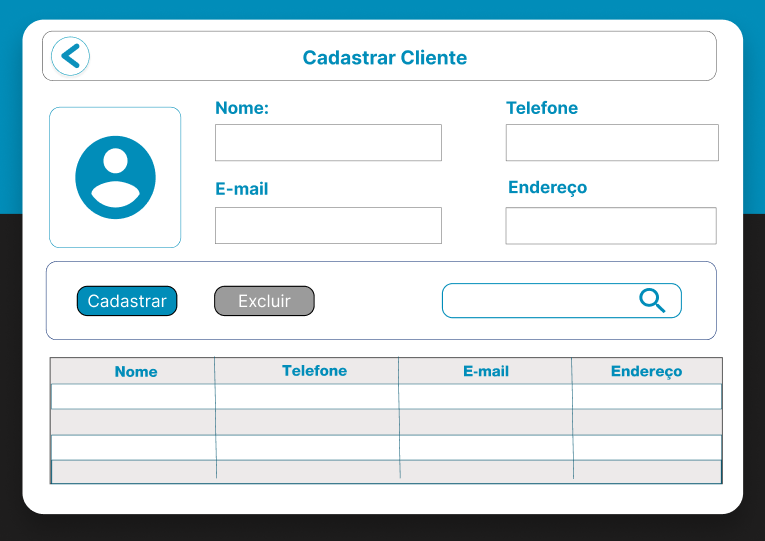
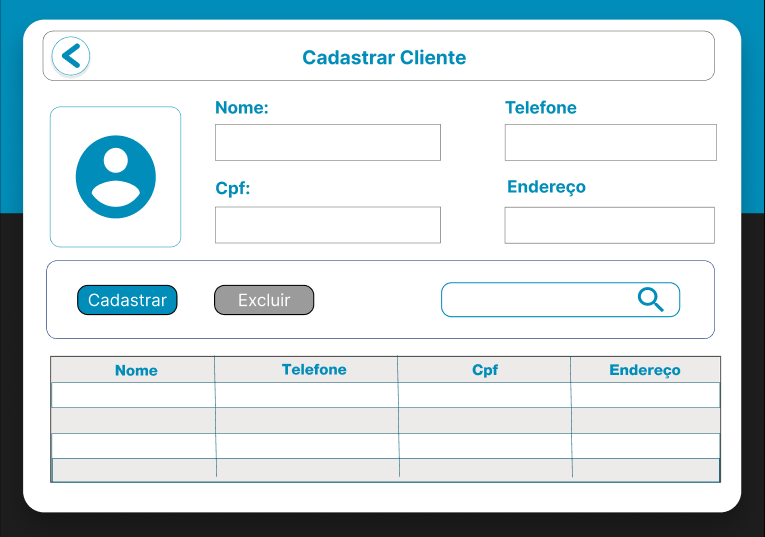
começando DonoController

diff --git a/ProjetoMVC/src/View/CadastroCliente.java b/ProjetoMVC/src/View/CadastroCliente.java
@@ -4,6 +4,8 @@
  */
 package View;
 
+import javax.swing.JTextField;
+
 /**
  *
  * @author Usuário
@@ -29,11 +31,13 @@ public class CadastroCliente extends javax.swing.JFrame {
         jButton1 = new javax.swing.JButton();
         jButton2 = new javax.swing.JButton();
         jButton3 = new javax.swing.JButton();
-        jTextField1 = new javax.swing.JTextField();
-        jTextField2 = new javax.swing.JTextField();
-        jTextField3 = new javax.swing.JTextField();
-        jTextField4 = new javax.swing.JTextField();
-        Fundo_Cadastro_Cliente = new javax.swing.JLabel();
+        tf_nome = new javax.swing.JTextField();
+        tf_telefone = new javax.swing.JTextField();
+        tf_cpf = new javax.swing.JTextField();
+        tf_endereco = new javax.swing.JTextField();
+        jScrollPane1 = new javax.swing.JScrollPane();
+        jTable1 = new javax.swing.JTable();
+        Fundo_CadastrarCliente = new javax.swing.JLabel();
 
         setDefaultCloseOperation(javax.swing.WindowConstants.EXIT_ON_CLOSE);
         getContentPane().setLayout(new org.netbeans.lib.awtextra.AbsoluteLayout());
@@ -53,32 +57,47 @@ public class CadastroCliente extends javax.swing.JFrame {
         });
         getContentPane().add(jButton3, new org.netbeans.lib.awtextra.AbsoluteConstraints(50, 30, 40, 50));
 
-        jTextField1.setBorder(null);
-        getContentPane().add(jTextField1, new org.netbeans.lib.awtextra.AbsoluteConstraints(220, 126, 220, 30));
+        tf_nome.setBorder(null);
+        getContentPane().add(tf_nome, new org.netbeans.lib.awtextra.AbsoluteConstraints(220, 126, 220, 30));
 
-        jTextField2.setBorder(null);
-        getContentPane().add(jTextField2, new org.netbeans.lib.awtextra.AbsoluteConstraints(510, 126, 200, 30));
+        tf_telefone.setBorder(null);
+        getContentPane().add(tf_telefone, new org.netbeans.lib.awtextra.AbsoluteConstraints(510, 126, 200, 30));
 
-        jTextField3.setBorder(null);
-        getContentPane().add(jTextField3, new org.netbeans.lib.awtextra.AbsoluteConstraints(220, 210, 220, 30));
+        tf_cpf.setBorder(null);
+        getContentPane().add(tf_cpf, new org.netbeans.lib.awtextra.AbsoluteConstraints(220, 210, 220, 30));
 
-        jTextField4.setBorder(null);
-        jTextField4.addActionListener(new java.awt.event.ActionListener() {
+        tf_endereco.setBorder(null);
+        tf_endereco.addActionListener(new java.awt.event.ActionListener() {
             public void actionPerformed(java.awt.event.ActionEvent evt) {
-                jTextField4ActionPerformed(evt);
+                tf_enderecoActionPerformed(evt);
             }
         });
-        getContentPane().add(jTextField4, new org.netbeans.lib.awtextra.AbsoluteConstraints(510, 210, 200, 30));
+        getContentPane().add(tf_endereco, new org.netbeans.lib.awtextra.AbsoluteConstraints(510, 210, 200, 30));
 
-        Fundo_Cadastro_Cliente.setIcon(new javax.swing.ImageIcon(getClass().getResource("/Imagens/CadastroCliente.png"))); // NOI18N
-        getContentPane().add(Fundo_Cadastro_Cliente, new org.netbeans.lib.awtextra.AbsoluteConstraints(0, 0, -1, 540));
+        jTable1.setModel(new javax.swing.table.DefaultTableModel(
+            new Object [][] {
+                {null, null, null, null},
+                {null, null, null, null},
+                {null, null, null, null},
+                {null, null, null, null}
+            },
+            new String [] {
+                "Nome", "Telefone", "Cpf", "Endereço"
+            }
+        ));
+        jScrollPane1.setViewportView(jTable1);
+
+        getContentPane().add(jScrollPane1, new org.netbeans.lib.awtextra.AbsoluteConstraints(40, 350, 690, 150));
+
+        Fundo_CadastrarCliente.setIcon(new javax.swing.ImageIcon(getClass().getResource("/Imagens/CadastroCliente.png"))); // NOI18N
+        getContentPane().add(Fundo_CadastrarCliente, new org.netbeans.lib.awtextra.AbsoluteConstraints(0, -20, 760, 570));
 
         pack();
     }// </editor-fold>//GEN-END:initComponents
 
-    private void jTextField4ActionPerformed(java.awt.event.ActionEvent evt) {//GEN-FIRST:event_jTextField4ActionPerformed
+    private void tf_enderecoActionPerformed(java.awt.event.ActionEvent evt) {//GEN-FIRST:event_tf_enderecoActionPerformed
         // TODO add your handling code here:
-    }//GEN-LAST:event_jTextField4ActionPerformed
+    }//GEN-LAST:event_tf_enderecoActionPerformed
 
     private void jButton3ActionPerformed(java.awt.event.ActionEvent evt) {//GEN-FIRST:event_jButton3ActionPerformed
          // Ação após clicar no Botão Voltar
@@ -122,13 +141,20 @@ public class CadastroCliente extends javax.swing.JFrame {
     }
 
     // Variables declaration - do not modify//GEN-BEGIN:variables
-    private javax.swing.JLabel Fundo_Cadastro_Cliente;
+    private javax.swing.JLabel Fundo_CadastrarCliente;
     private javax.swing.JButton jButton1;
     private javax.swing.JButton jButton2;
     private javax.swing.JButton jButton3;
-    private javax.swing.JTextField jTextField1;
-    private javax.swing.JTextField jTextField2;
-    private javax.swing.JTextField jTextField3;
-    private javax.swing.JTextField jTextField4;
+    private javax.swing.JScrollPane jScrollPane1;
+    private javax.swing.JTable jTable1;
+    private javax.swing.JTextField tf_cpf;
+    private javax.swing.JTextField tf_endereco;
+    private javax.swing.JTextField tf_nome;
+    private javax.swing.JTextField tf_telefone;
     // End of variables declaration//GEN-END:variables
+
+    
+    
+
+    
 }

diff --git a/ProjetoMVC/src/Controller/DonoController.java b/ProjetoMVC/src/Controller/DonoController.java
@@ -1,0 +1,36 @@
+/*
+ * Click nbfs://nbhost/SystemFileSystem/Templates/Licenses/license-default.txt to change this license
+ * Click nbfs://nbhost/SystemFileSystem/Templates/Classes/Class.java to edit this template
+ */
+package Controller;
+
+import View.CadastroCliente;
+import View.SubMenuCadastro;
+import java.io.Serializable;
+
+/**
+ *
+ * @author Usuário
+ */
+public class DonoController implements Serializable {
+     private final CadastroCliente view;
+     private DonoHelper helper;
+
+    public DonoController(CadastroCliente view) {
+        this.view = view;
+        this.helper = new DonoHelper(helper);
+    }
+    
+    public void cadastrarCliente(){
+        //Pegar Pet da view
+        Dono dono = helper.obterModelo();
+        
+        DonoDAO donoDao = new DonoDAO();
+        donoDao.cadastrarCliente(dono);
+    }
+     
+    public void voltarAoMenu(){
+        SubMenuCadastro novoFrame = new SubMenuCadastro();
+        novoFrame.setVisible(true);
+    }
+}

diff --git a/ProjetoMVC/src/Controller/Helper/DonoHelper.java b/ProjetoMVC/src/Controller/Helper/DonoHelper.java
@@ -1,0 +1,23 @@
+
+package Controller.Helper;
+
+import View.CadastroCliente;
+import java.io.Serializable;
+
+
+public class DonoHelper implements Serializable {
+    private final CadastroCliente view;
+
+    public DonoHelper(CadastroCliente view) {
+        this.view = view;
+    }
+    
+    public Dono obterModelo(){
+        String nome = view.getTf_nome().getText();
+        String telefone = view.getTf_telefone().getText();
+        String email = view.getTf_email().getText();
+        String endereco = view.getTf_endereco().getText();
+        Pet modelo = new Dono(nome, raca,idade,id_Dono);
+        return modelo;
+    }
+}

diff --git a/ProjetoMVC/src/Model/DAO/DonoDAO.java b/ProjetoMVC/src/Model/DAO/DonoDAO.java
@@ -2,12 +2,14 @@
  * Click nbfs://nbhost/SystemFileSystem/Templates/Licenses/license-default.txt to change this license
  * Click nbfs://nbhost/SystemFileSystem/Templates/Classes/Class.java to edit this template
  */
-package Controller.Helper;
+package Model.DAO;
+
+import java.io.Serializable;
 
 /**
  *
  * @author Usuário
  */
-class view {
+public class DonoDAO implements Serializable {
     
 }
